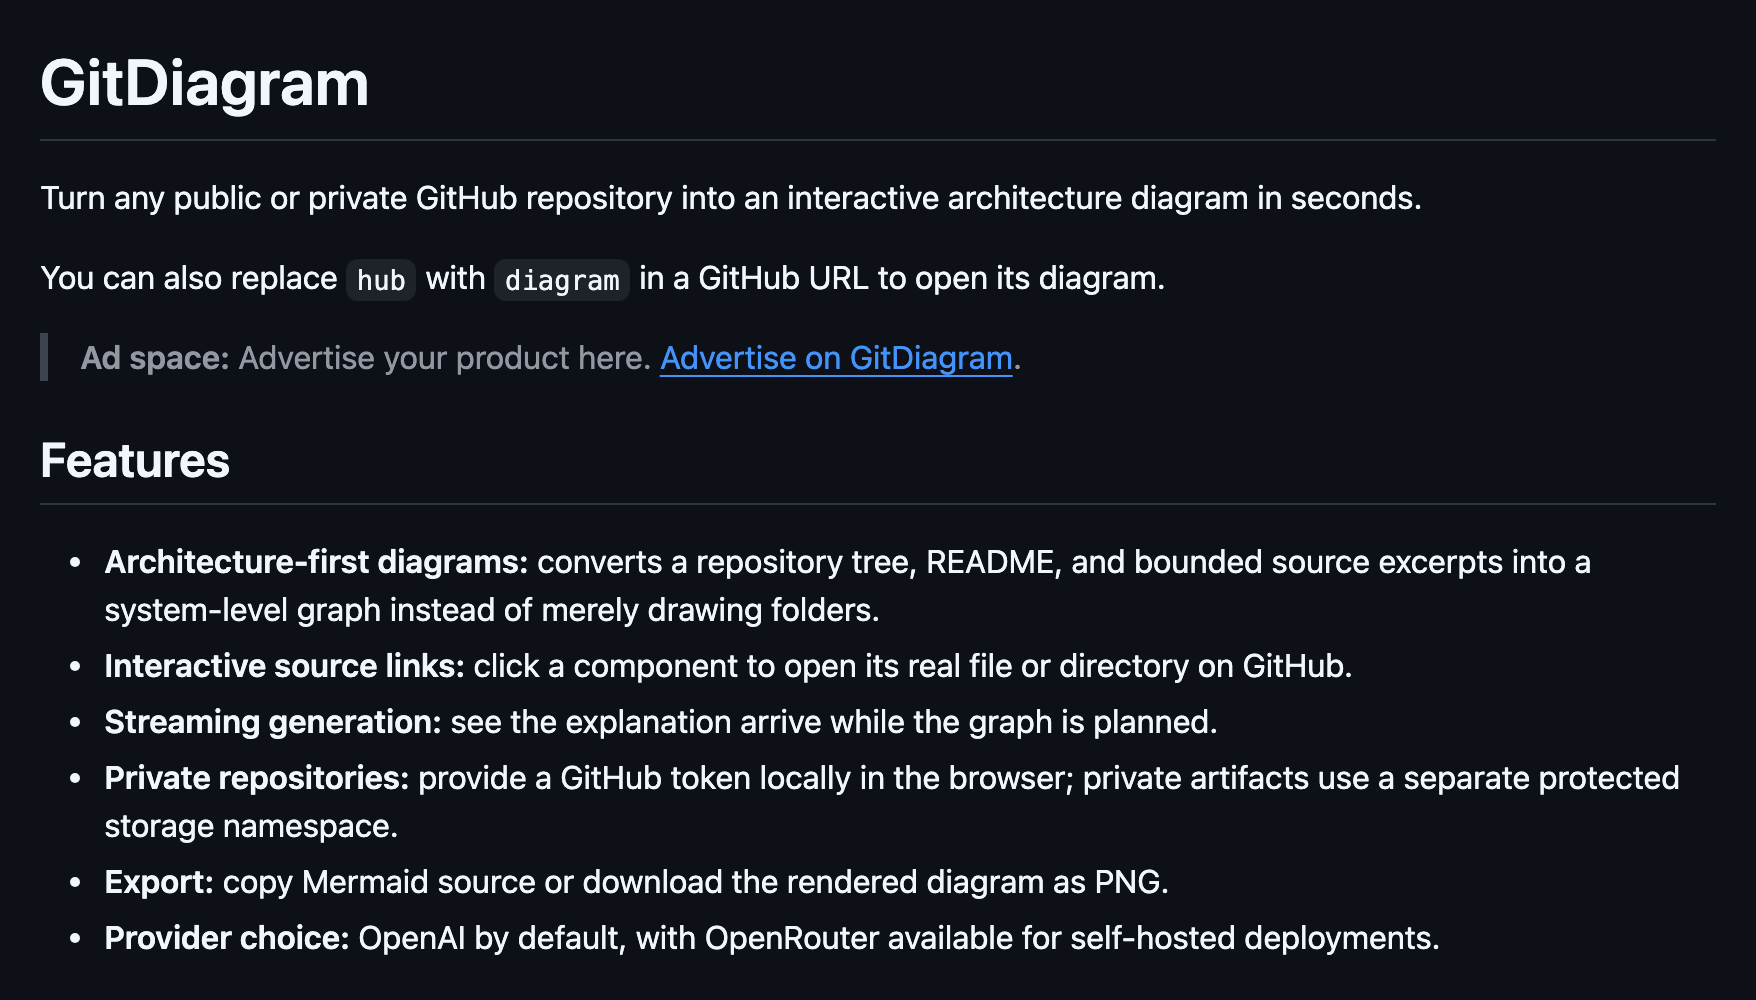
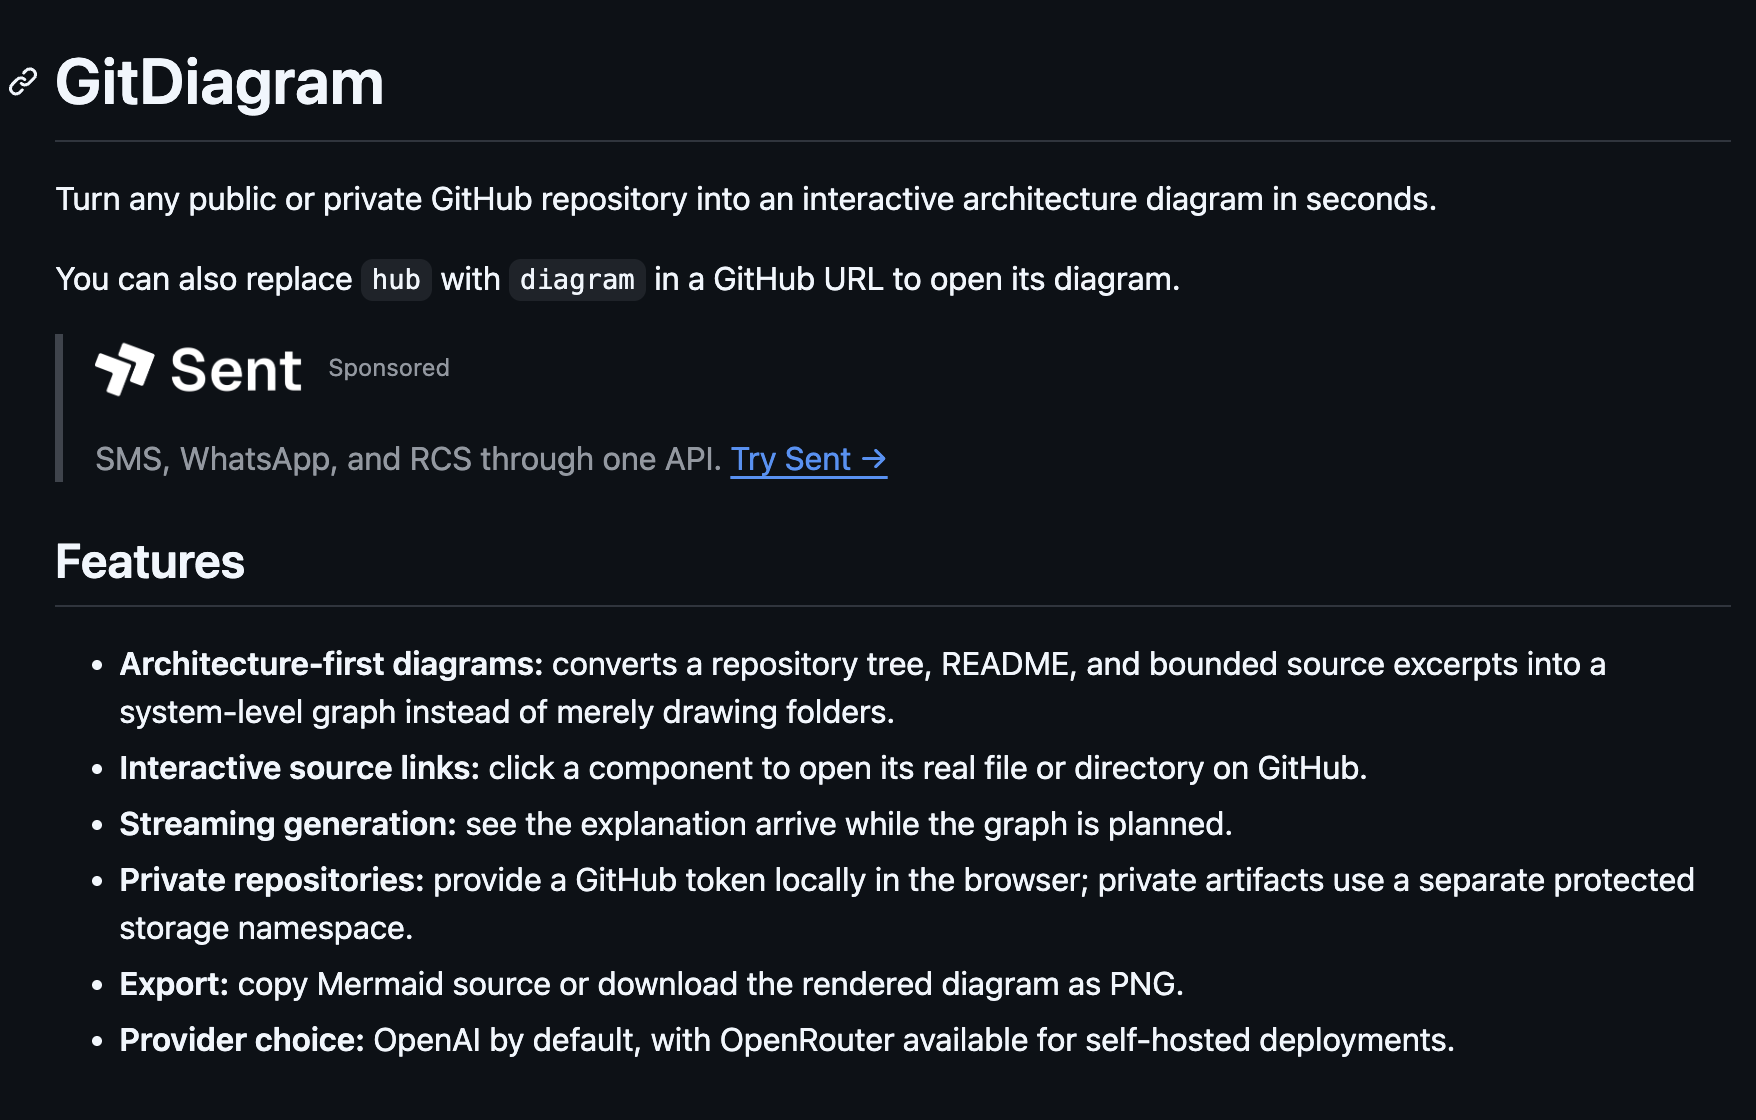
Refresh advertising screenshots from live Sent placements

Changed region(s): [[0.0, 0.031, 0.9841, 0.837], [0.0308, 0.868, 0.8303, 0.961]]

diff --git a/src/app/advertise/sponsor-content.ts b/src/app/advertise/sponsor-content.ts
@@ -86,9 +86,9 @@ export function createSponsorContent(stats: SponsorStats) {
         "An ad placement beneath generated architecture diagrams, with your logo, product description, and a link to your site.",
       preview: {
         src: "/sponsor-previews/diagram.png",
-        width: 2344,
-        height: 1260,
-        highlight: { x: 20, y: 1018, width: 2304, height: 140 },
+        width: 2880,
+        height: 1800,
+        highlight: { x: 273, y: 1344, width: 2304, height: 178 },
         alt: "The FastAPI architecture diagram with the full-width ad space directly beneath it.",
         caption: "A full-width placement beneath the generated diagram.",
       },
@@ -100,9 +100,9 @@ export function createSponsorContent(stats: SponsorStats) {
         "Your product appears below the repository lookup controls, where developers start turning codebases into diagrams.",
       preview: {
         src: "/sponsor-previews/home.png",
-        width: 1794,
-        height: 1346,
-        highlight: { x: 199, y: 1084, width: 1396, height: 120 },
+        width: 2880,
+        height: 1800,
+        highlight: { x: 742, y: 1284, width: 1396, height: 174 },
         alt: "GitDiagram’s homepage with the ad space below the repository input and example repositories.",
         caption: "Inside the repository lookup panel, below the examples.",
       },
@@ -114,9 +114,9 @@ export function createSponsorContent(stats: SponsorStats) {
         "A dedicated ad row among the public repository listings, with your logo, description, and link.",
       preview: {
         src: "/sponsor-previews/browse.png",
-        width: 2388,
-        height: 1434,
-        highlight: { x: 48, y: 924, width: 2292, height: 188 },
+        width: 2880,
+        height: 1800,
+        highlight: { x: 279, y: 1105, width: 2292, height: 182 },
         alt: "GitDiagram’s browse catalog with a dedicated ad row between the first two repository listings.",
         caption: "A dedicated row immediately after the first repository.",
       },
@@ -129,8 +129,8 @@ export function createSponsorContent(stats: SponsorStats) {
       preview: {
         src: "/sponsor-previews/readme.png",
         width: 1756,
-        height: 1000,
-        highlight: { x: 40, y: 333, width: 1676, height: 48 },
+        height: 1120,
+        highlight: { x: 40, y: 333, width: 1676, height: 149 },
         alt: "GitDiagram’s README on GitHub with the ad between the introduction and Features section.",
         caption: "Below the introduction, before the Features section.",
       },

diff --git a/docs/sponsor-preview-images.md b/docs/sponsor-preview-images.md
@@ -1,15 +1,15 @@
 # Sponsor placement screenshots
 
-The images in `public/sponsor-previews` were captured on September 19, 2026
-from the running application and the public GitHub README. They show the actual
-unfilled placements with the current advertising copy; no sponsor branding or
-page content was substituted.
+The images in `public/sponsor-previews` were captured on September 20, 2026
+from production GitDiagram and the public GitHub README. They show the active
+Sent campaign with the approved wordmark layout, smaller sponsorship label, and
+stacked tagline. No branding or page content was substituted.
 
 | Image         | Source                                           | Framing                                                            |
 | ------------- | ------------------------------------------------ | ------------------------------------------------------------------ |
-| `home.png`    | Local `/`                                        | Homepage heading, lookup panel, and sponsor slot                   |
-| `diagram.png` | Local `/fastapi/fastapi`                         | Lower portion of the saved diagram and the sponsor slot beneath it |
-| `browse.png`  | Local `/browse?sort=stars_desc`                  | Catalog controls, first repository listings, and the sponsor row   |
+| `home.png`    | `https://gitdiagram.com/`                        | Homepage heading, lookup panel, and sponsor slot                   |
+| `diagram.png` | `https://gitdiagram.com/fastapi/fastapi`         | Lower portion of the saved diagram and the sponsor slot beneath it |
+| `browse.png`  | `https://gitdiagram.com/browse?sort=stars_desc`  | Catalog controls, first repository listings, and the sponsor row   |
 | `readme.png`  | `https://github.com/ahmedkhaleel2004/gitdiagram` | README introduction, sponsor mention, and Features section         |
 
 Refresh these screenshots when a placement changes. Capture at 2x pixel density,
